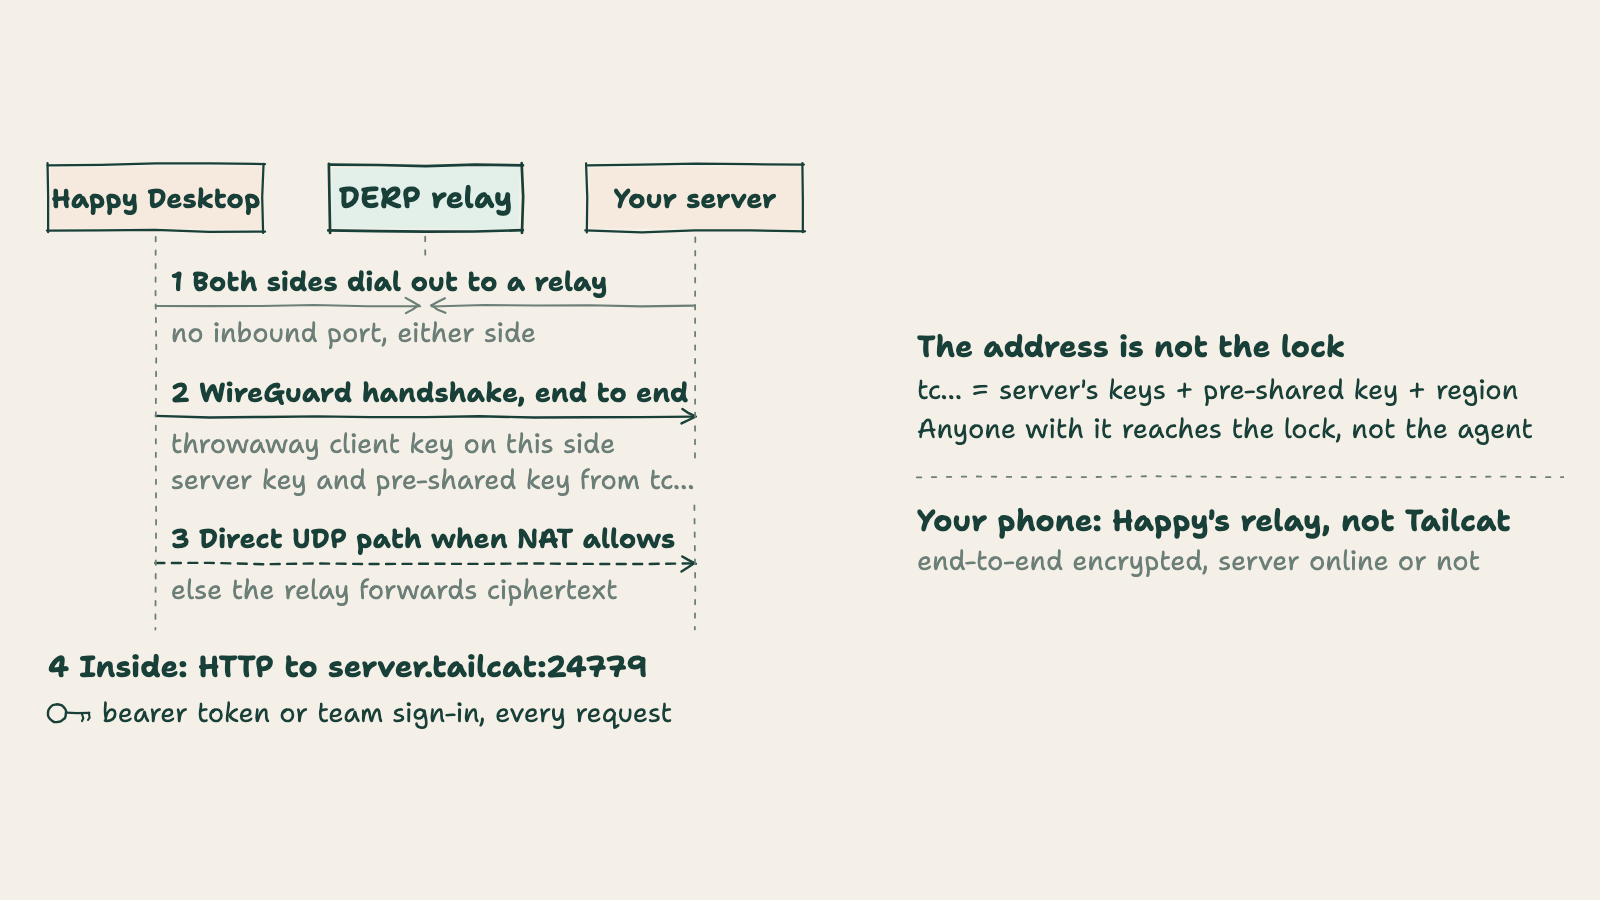
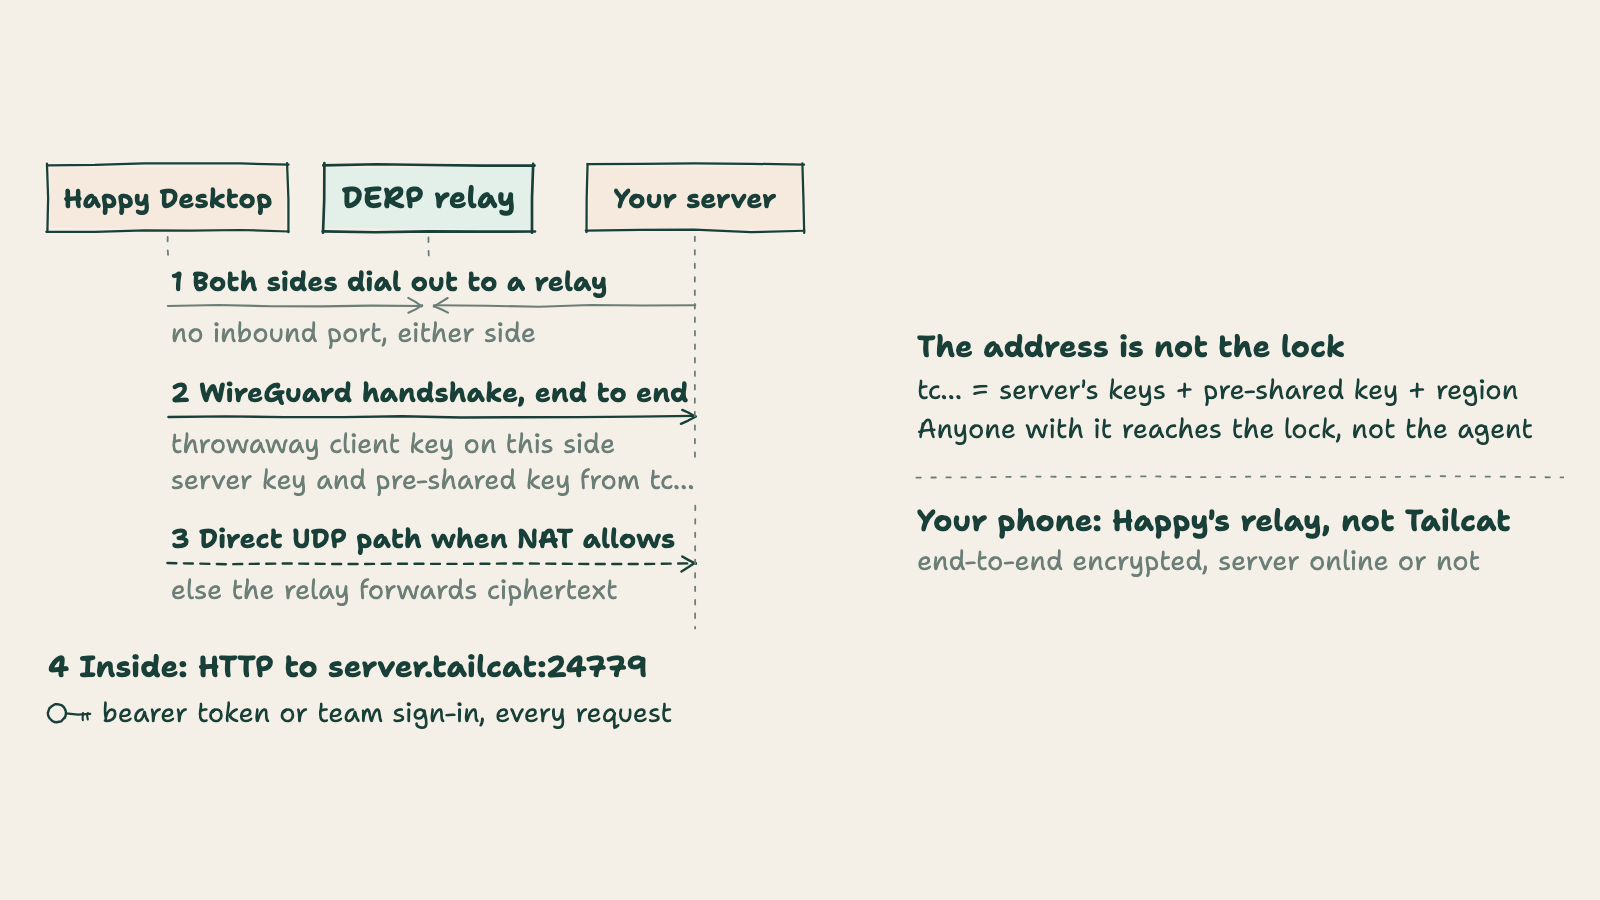
Diagram boxes fit their labels; a simpler Tailcat image for X; the PNG export lives in notes/
- Boxes are widened so every label has about 10 units of room in Shantell Sans: Happy Desktop
  and DERP relay (Tailcat), Happy server and Coding agent (voice), Happy Desktop and Team server
  (WorkOS). The SVGs are regenerated.
- notes/diagram-pngs.py re-exports tailcat, voice and team-sign-in-workos PNGs, plus the 16:9
  versions, with the font embedded.
- New: public/img/tailcat-x.png, 1600x900. Three boxes, three paths, the claims from /tailcat/,
  and the Happy Engineering lockup.

diff --git a/notes/diagram-pngs.py b/notes/diagram-pngs.py
@@ -1,0 +1,171 @@
+# Writes the diagrams as PNGs for posting on X, which takes no SVG. Run from the repository root
+# after changing a diagram's generator:
+#   python3 notes/diagram-pngs.py
+#
+# - public/img/<name>.png: the diagram 1600px wide, on the page colour, with a 40-unit margin.
+# - public/img/<name>-16x9.png: 1600x900. A tall diagram is laid out in two columns, its sequence
+#   on the left and its notes on the right, so the text stays readable as a thumbnail.
+# - public/img/tailcat-x.png: a simpler Tailcat picture for the post, with the brand lockup.
+#
+# Needs Python Playwright with Chromium (pip install playwright; playwright install chromium);
+# CHROMIUM=/path/to/chrome overrides the browser. Fonts download once into notes/og/.fonts/,
+# shared with notes/og/cards.py, and are embedded so no system font stands in.
+import base64
+import math
+import os
+import random
+import re
+import urllib.request
+from pathlib import Path
+
+from playwright.sync_api import sync_playwright
+
+ROOT = Path.cwd()
+IMG = ROOT / "public/img"
+FONTS = ROOT / "notes/og/.fonts"
+GOOGLE_FONTS = "https://raw.githubusercontent.com/google/fonts/bd8f81ddb5c74d5c8897b36ad88b440266245103/ofl"
+FONT_FILES = {
+    "ShantellSans.ttf": "shantellsans/ShantellSans%5BBNCE,INFM,SPAC,wght%5D.ttf",
+    "DMSans.ttf": "dmsans/DMSans%5Bopsz,wght%5D.ttf",
+}
+PAGE = "#f5f0e7"
+INK = "#183f38"; MUTED = "#6b7f78"; SAND = "#f6eadf"; MINT = "#e3efe9"
+
+# name: (left column ends, right column starts, right column width), in viewBox units, or None
+# for a single column.
+DIAGRAMS = {
+    "tailcat": (396, 418, 440),
+    "voice": (448, 470, 440),
+    "team-sign-in-workos": None,
+}
+
+
+def fonts_css():
+    FONTS.mkdir(parents=True, exist_ok=True)
+    css = []
+    for name, remote in FONT_FILES.items():
+        target = FONTS / name
+        if not target.exists():
+            print(f"downloading {name}")
+            target.write_bytes(urllib.request.urlopen(f"{GOOGLE_FONTS}/{remote}").read())
+        family = "Shantell Sans" if name.startswith("Shantell") else "DM Sans"
+        data = base64.b64encode(target.read_bytes()).decode()
+        css.append(f"@font-face{{font-family:'{family}';src:url(data:font/ttf;base64,{data}) format('truetype');font-weight:100 900}}")
+    return "".join(css)
+
+
+def shoot(browser, head, path, width, height, scale, body):
+    page = browser.new_page(viewport={"width": width, "height": height}, device_scale_factor=scale)
+    page.set_content(f"<html><head><style>{head}html,body{{margin:0;background:{PAGE}}}svg{{display:block}}</style></head><body>{body}</body></html>")
+    page.evaluate("document.fonts.ready")
+    page.wait_for_timeout(300)
+    if not page.evaluate("document.fonts.check(\"16px 'Shantell Sans'\")"):
+        raise RuntimeError("Shantell Sans did not load")
+    page.screenshot(path=str(path))
+    page.close()
+    print("wrote", path.relative_to(ROOT))
+
+
+def export(browser, head, name, split):
+    svg = (IMG / f"{name}.svg").read_text()
+    w, h = (float(v) for v in re.search(r'viewBox="0 0 ([\d.]+) ([\d.]+)"', svg).groups())
+    pad = 40
+    shoot(browser, head, IMG / f"{name}.png", round(w + pad * 2), round(h + pad * 2), 1600 / (w + pad * 2),
+          f'<div style="padding:{pad}px">{svg}</div>')
+    if split is None:
+        return
+
+    def crop(y, cw, ch, scale):
+        return re.sub(r'width="[\d.]+" height="[\d.]+" viewBox="[^"]+"',
+                      f'width="{cw * scale}" height="{ch * scale}" viewBox="0 {y} {cw} {ch}"', svg, count=1)
+
+    bottom, top, right = split
+    margin, gap = 36, 60
+    fit = min((1600 - margin * 2) / (w + gap + right), (900 - margin * 2) / max(bottom, h - top))
+    shoot(browser, head, IMG / f"{name}-16x9.png", 1600, 900, 1,
+          f'<div style="display:flex;align-items:center;justify-content:center;width:1600px;height:900px;gap:{gap * fit}px">'
+          f"{crop(0, w, bottom, fit)}{crop(top, right, h - top, fit)}</div>")
+
+
+# The hand-drawn primitives of notes/blog/tailcat-diagram.py.
+random.seed(11)
+j = lambda a=1.2: random.uniform(-a, a)
+
+
+def line(x1, y1, x2, y2, w=1.6, c=INK, a=1.0, dash=None):
+    n = max(2, int(abs(x2 - x1) + abs(y2 - y1)) // 40 + 1)
+    pts = [(x1 + j(.5), y1 + j(.5))]
+    for i in range(1, n):
+        t = i / n
+        pts.append((x1 + (x2 - x1) * t + j(a), y1 + (y2 - y1) * t + j(a)))
+    pts.append((x2 + j(.5), y2 + j(.5)))
+    d = "M" + " L".join(f"{x:.1f} {y:.1f}" for x, y in pts)
+    da = f' stroke-dasharray="{dash}"' if dash else ""
+    return f'<path d="{d}" fill="none" stroke="{c}" stroke-width="{w}" stroke-linecap="round" stroke-linejoin="round"{da}/>'
+
+
+def rect(x, y, w, h, sw=1.6, c=INK, fill=None):
+    out = []
+    if fill:
+        out.append(f'<path d="M{x+2} {y+2} L{x+w-1} {y+1} L{x+w-2} {y+h-1} L{x+1} {y+h-2} Z" fill="{fill}"/>')
+    out += [line(x, y, x + w + 1, y + j(.6), sw, c), line(x + w, y - 1, x + w + j(.6), y + h + 1, sw, c),
+            line(x + w + 1, y + h, x - 1, y + h + j(.6), sw, c), line(x, y + h + 1, x + j(.6), y - 1, sw, c)]
+    return "\n".join(out)
+
+
+def text(x, y, s, size, c=INK, wt=400, anchor="middle", family=None):
+    f = f' font-family="{family}"' if family else ""
+    s = s.replace("&", "&amp;").replace("'", "&#8217;")
+    return f'<text x="{x}" y="{y}" font-size="{size}" font-weight="{wt}" fill="{c}" text-anchor="{anchor}"{f}>{s}</text>'
+
+
+def arrow(x1, y1, x2, y2, c=INK, w=1.6, dash=None):
+    ang = math.atan2(y2 - y1, x2 - x1)
+    hx, hy = x2 - 9 * math.cos(ang), y2 - 9 * math.sin(ang)
+    l = (hx + 5 * math.cos(ang + math.pi / 2), hy + 5 * math.sin(ang + math.pi / 2))
+    r = (hx - 5 * math.cos(ang + math.pi / 2), hy - 5 * math.sin(ang + math.pi / 2))
+    return line(x1, y1, x2, y2, w, c, .6, dash) + line(l[0], l[1], x2, y2, w, c, .2) + line(r[0], r[1], x2, y2, w, c, .2)
+
+
+def tailcat_x(browser, head):
+    """Tailcat for X, drawn in 800x450 units and rendered at 2x: three boxes, three paths, one line of claims."""
+    wordmark = (ROOT / "public/brand/happy-engineering-inline-light.svg").read_text()
+    wordmark = re.sub(r'width="[\d.]+" height="[\d.]+"', 'width="151" height="17"', wordmark, count=1)
+    o = []
+    o.append(f'<g transform="translate(40 26)">{wordmark}</g>')
+    o.append(text(40, 60, "Open-source harness for Claude, Codex & Grok agents", 11.5, MUTED, 500, "start", "DM Sans"))
+
+    o.append(rect(320, 146, 160, 44, 1.8, INK, MINT))
+    o.append(text(400, 175, "Relay", 20, INK, 700))
+    o.append(text(400, 214, "forwards ciphertext only", 15, MUTED))
+
+    o.append(rect(50, 242, 180, 48, 1.6, INK, SAND))
+    o.append(text(140, 273, "Happy Desktop", 20, INK, 700))
+    o.append(rect(570, 242, 180, 48, 1.6, INK, SAND))
+    o.append(text(660, 273, "Your server", 20, INK, 700))
+    o.append(text(660, 314, "Claude · Codex · Grok agents", 15, MUTED))
+
+    o.append(arrow(180, 238, 316, 182, INK, 1.6))
+    o.append(arrow(484, 182, 620, 238, INK, 1.6))
+    o.append(arrow(236, 266, 564, 266, INK, 1.6, "7 6"))
+    o.append(text(400, 290, "direct UDP when NAT allows", 15, MUTED))
+
+    o.append(text(400, 378, "No open ports · no public IP · no Tailscale account", 18, INK, 700))
+    o.append(text(760, 426, "Powered by Tailscale’s Tailcat", 10.5, MUTED, 500, "end", "DM Sans"))
+
+    svg = ('<svg xmlns="http://www.w3.org/2000/svg" width="800" height="450" viewBox="0 0 800 450" '
+           "font-family=\"'Shantell Sans', cursive\">" + "\n".join(o) + "</svg>")
+    shoot(browser, head, IMG / "tailcat-x.png", 800, 450, 2, svg)
+
+
+def main():
+    head = fonts_css()
+    with sync_playwright() as playwright:
+        browser = playwright.chromium.launch(executable_path=os.environ.get("CHROMIUM") or None)
+        for name, split in DIAGRAMS.items():
+            export(browser, head, name, split)
+        tailcat_x(browser, head)
+        browser.close()
+
+
+main()

diff --git a/notes/blog/tailcat-diagram.py b/notes/blog/tailcat-diagram.py
@@ -67,15 +67,16 @@ def key(x, y):
 
 o = []
 # Text is at least 18 units: about 12px when a phone shrinks this to 350px.
-DESK, RELAY, SRV = 80, 260, 440
-o.append(rect(8, 8, 144, 44, 1.5, INK, SAND))
+DESK, RELAY, SRV = 88, 262, 440
+o.append(rect(8, 8, 160, 44, 1.5, INK, SAND))
 o.append(text(DESK, 37, "Happy Desktop", 18, INK, 700, "middle"))
-o.append(rect(196, 8, 128, 44, 1.8, INK, MINT))
+o.append(rect(192, 8, 140, 44, 1.8, INK, MINT))
 o.append(text(RELAY, 37, "DERP relay", 20, INK, 700, "middle"))
 o.append(rect(368, 8, 144, 44, 1.5, INK, SAND))
 o.append(text(SRV, 37, "Your server", 18, INK, 700, "middle"))
 
 # Labels between the lifelines, with their extents, so a lifeline breaks instead of crossing one.
+# They start at x = 90, so the longest still ends at the server lifeline.
 rows = []
 
 
@@ -98,21 +99,21 @@ def lifeline(x, y1, y2):
 
 
 # 1. Both machines dial out to the relay; neither opens a port.
-o.append(label(DESK + 10, 92, "1  Both sides dial out to a relay", 18, INK, 700))
+o.append(label(DESK + 2, 92, "1  Both sides dial out to a relay", 18, INK, 700))
 o.append(arrow(DESK, 102, RELAY - 4, 102, MUTED, 1.4))
 o.append(arrow(SRV, 102, RELAY + 4, 102, MUTED, 1.4))
-o.append(label(DESK + 10, 126, "no inbound port, either side", 18, MUTED))
+o.append(label(DESK + 2, 126, "no inbound port, either side", 18, MUTED))
 
 # 2. The WireGuard handshake runs end to end; the relay only forwards it.
-o.append(label(DESK + 10, 166, "2  WireGuard handshake, end to end", 18, INK, 700))
+o.append(label(DESK + 2, 166, "2  WireGuard handshake, end to end", 18, INK, 700))
 o.append(arrow(DESK, 176, SRV, 176, INK))
-o.append(label(DESK + 10, 200, "throwaway client key on this side", 18, MUTED))
-o.append(label(DESK + 10, 224, "server key and pre-shared key from tc\u2026", 18, MUTED))
+o.append(label(DESK + 2, 200, "throwaway client key on this side", 18, MUTED))
+o.append(label(DESK + 2, 224, "server key and pre-shared key from tc\u2026", 18, MUTED))
 
 # 3. NAT traversal, with the relay as the fallback path.
-o.append(label(DESK + 10, 264, "3  Direct UDP path when NAT allows", 18, INK, 700))
+o.append(label(DESK + 2, 264, "3  Direct UDP path when NAT allows", 18, INK, 700))
 o.append(arrow(DESK, 274, SRV, 274, INK, 1.6, "6 5"))
-o.append(label(DESK + 10, 298, "else the relay forwards ciphertext", 18, MUTED))
+o.append(label(DESK + 2, 298, "else the relay forwards ciphertext", 18, MUTED))
 for x in (DESK, RELAY, SRV):
     o.append(lifeline(x, 56, 318))
 

diff --git a/notes/blog/voice-diagram.py b/notes/blog/voice-diagram.py
@@ -76,7 +76,7 @@ o = []
 APP, HS, EL = 78, 260, 442
 o.append(rect(8, 8, 140, 44, 1.5, INK, SAND))
 o.append(text(APP, 37, "Phone app", 18, INK, 700, "middle"))
-o.append(rect(190, 8, 140, 44, 1.5, INK, SAND))
+o.append(rect(186, 8, 148, 44, 1.5, INK, SAND))
 o.append(text(HS, 37, "Happy server", 18, INK, 700, "middle"))
 o.append(rect(372, 8, 140, 44, 1.8, INK, MINT))
 o.append(text(EL, 37, "ElevenLabs", 20, INK, 700, "middle"))
@@ -129,9 +129,9 @@ for x in (APP, HS, EL):
 # 5. What you asked for goes to the coding agent on your computer.
 o.append(arrow(APP, 350, APP, 392, INK))
 o.append(text(100, 376, "5  On to the coding agent", 20, INK, 700))
-o.append(rect(8, 396, 140, 44, 1.5, INK, SAND))
-o.append(text(APP, 425, "Coding agent", 18, INK, 700, "middle"))
-o.append(text(160, 424, "your request, allow, or deny", 18, MUTED))
+o.append(rect(8, 396, 148, 44, 1.5, INK, SAND))
+o.append(text(82, 425, "Coding agent", 18, INK, 700, "middle"))
+o.append(text(168, 424, "your request, allow, or deny", 18, MUTED))
 
 o.append(line(8, 462, 512, 462, 1.2, MUTED, .4, "3 7"))
 o.append(text(8, 498, "What ElevenLabs hears", 20, INK, 700))

diff --git a/notes/guides/workos-diagram.py b/notes/guides/workos-diagram.py
@@ -81,12 +81,12 @@ def key(x, y):
 
 o = []
 # Text is at least 18 units: about 12px when a phone shrinks this to 350px.
-APP, WOS, SRV = 78, 272, 446
-o.append(rect(8, 8, 140, 44, 1.5, INK, SAND))
+APP, WOS, SRV = 88, 274, 444
+o.append(rect(8, 8, 160, 44, 1.5, INK, SAND))
 o.append(text(APP, 37, "Happy Desktop", 18, INK, 700, "middle"))
-o.append(rect(212, 8, 120, 44, 1.8, INK, MINT))
+o.append(rect(214, 8, 120, 44, 1.8, INK, MINT))
 o.append(text(WOS, 37, "WorkOS", 20, INK, 700, "middle"))
-o.append(rect(380, 8, 132, 44, 1.5, INK, SAND))
+o.append(rect(376, 8, 136, 44, 1.5, INK, SAND))
 o.append(text(SRV, 37, "Team server", 18, INK, 700, "middle"))
 
 # Labels between the lifelines, with their extents, so a lifeline breaks instead of crossing one.
